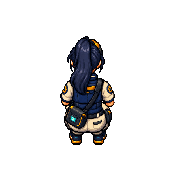
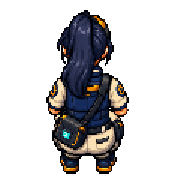
fix(office): normalize coworker desk scale

Changed region(s): [[0.2557, 0.0568, 0.7386, 0.9943]]

diff --git a/scripts/normalize-office-coworker-pair.py b/scripts/normalize-office-coworker-pair.py
@@ -1,0 +1,70 @@
+#!/usr/bin/env python3
+"""Normalize an existing Office coworker's idle/work pair to one visual scale."""
+
+from __future__ import annotations
+
+import argparse
+from pathlib import Path
+
+from PIL import Image
+
+
+CANVAS_SIZE = (176, 176)
+FIT_SIZE = (164, 164)
+
+
+def hard_matte(image: Image.Image, threshold: int = 88) -> Image.Image:
+    rgba = image.convert("RGBA")
+    alpha = rgba.getchannel("A").point(lambda value: 255 if value >= threshold else 0)
+    rgba.putalpha(alpha)
+    return rgba
+
+
+def trim_visible(image: Image.Image) -> Image.Image:
+    matte = hard_matte(image)
+    bounds = matte.getchannel("A").getbbox()
+    if bounds is None:
+        raise ValueError("pose has no visible pixels")
+    return matte.crop(bounds)
+
+
+def compose(pose: Image.Image, scale: float) -> Image.Image:
+    resized = pose.resize(
+        (max(1, round(pose.width * scale)), max(1, round(pose.height * scale))),
+        Image.Resampling.NEAREST,
+    )
+    resized = hard_matte(resized)
+    canvas = Image.new("RGBA", CANVAS_SIZE, (0, 0, 0, 0))
+    x = (CANVAS_SIZE[0] - resized.width) // 2
+    y = CANVAS_SIZE[1] - resized.height - 2
+    canvas.alpha_composite(resized, (x, y))
+    return canvas
+
+
+def main() -> None:
+    parser = argparse.ArgumentParser()
+    parser.add_argument("--slug", required=True)
+    parser.add_argument(
+        "--asset-dir",
+        type=Path,
+        default=Path("ui/public/office/coworkers"),
+    )
+    args = parser.parse_args()
+
+    paths = (
+        args.asset_dir / f"{args.slug}-desk-v1.png",
+        args.asset_dir / f"{args.slug}-desk-work-v1.png",
+    )
+    poses = [trim_visible(Image.open(path)) for path in paths]
+    scale = min(
+        FIT_SIZE[0] / max(pose.width for pose in poses),
+        FIT_SIZE[1] / max(pose.height for pose in poses),
+    )
+
+    for path, pose in zip(paths, poses):
+        compose(pose, scale).save(path, optimize=True)
+        print(path)
+
+
+if __name__ == "__main__":
+    main()

diff --git a/scripts/package-office-coworker-sheet.py b/scripts/package-office-coworker-sheet.py
@@ -26,7 +26,10 @@ def hard_matte(image: Image.Image, threshold: int = 88) -> Image.Image:
 def trim_pose(sheet: Image.Image, index: int) -> Image.Image:
     left = round(sheet.width * index / 3)
     right = round(sheet.width * (index + 1) / 3)
-    panel = sheet.crop((left, 0, right, sheet.height)).convert("RGBA")
+    # Generated sheets often retain a faint alpha haze around the character.
+    # Matte it before measuring so that invisible fringe cannot make the
+    # packaged character look much smaller than its coworkers.
+    panel = hard_matte(sheet.crop((left, 0, right, sheet.height)))
     bounds = panel.getchannel("A").getbbox()
     if bounds is None:
         raise ValueError(f"pose {index + 1} has no visible pixels")

diff --git a/plans/office-floor.md b/plans/office-floor.md
@@ -2381,6 +2381,22 @@ Low-noise auto-route follow-up (2026-08-29):
 - `npx tsc --noEmit`, `cd ui && npx tsc -b`, the 612-file Vitest run (5,070 passing; one file and nine tests skipped),
   and the UI production build all passed. The build retains the existing large-chunk advisory only.
 
+Coworker map-scale normalization follow-up (2026-08-29):
+
+- Maintainer review used Alice as the correct scale reference and identified the seated NPCs—not the player—as too
+  small. Inspection found that every desk image had the same 176px canvas, but generated alpha fringe made some actual
+  silhouettes occupy only 93–119px vertically before the runtime's common 0.23 scale was applied.
+- Compared enlarging every coworker in CSS, changing the complete map scale, and normalizing the authored desk assets by
+  their actual hard-alpha bounds. Chose asset normalization because it fixes the inconsistent source occupancy while
+  leaving Alice, desks, pod spacing, hit targets, and collision geometry untouched.
+- Packaging now hard-mattes generated panels before trimming. A deterministic pair normalizer repacks all ten idle/work
+  sets with one shared scale and bottom-center anchor inside a 164px visual fit, preventing tiny newcomers and animation
+  breathing without rerendering or changing character identity.
+- Browser-rechecked the real 18-Workspace Project at 1280x720: the seated coworkers now read at the same character
+  scale as Alice without covering desks or changing the three-pod composition. Root/UI TypeScript, the 612-file Vitest
+  run (5,070 passing; one file and nine tests skipped), and the UI production build passed; the existing large-chunk
+  advisory remains unchanged.
+
 ## Completion
 
 计划只在 maintainer 接受真实浏览器中的 Live、All groups、employee dialog 和 pause/log

diff --git a/ui/public/office/coworkers/README.md b/ui/public/office/coworkers/README.md
@@ -28,7 +28,11 @@ The roster now contains ten curated identities. Six additional feminine coworker
 three-pose sheets: two Codex variants (field mechanic and cyber scout), a Claude botanical archivist, a Pi field
 mathematician, and two OpenCode variants (workshop hacker and systems analyst). Each sheet keeps one identity across a
 standing portrait, seated idle pose, and seated typing pose. `scripts/package-office-coworker-sheet.py` splits those
-sheets and packages hard-alpha 72x104 portraits plus 176x176 seated canvases.
+sheets and packages hard-alpha 72x104 portraits plus 176x176 seated canvases. Packaging applies the hard-alpha matte
+before measuring each pose, so faint generated fringe cannot shrink the visible character. Existing idle/work pairs
+can be repacked with `scripts/normalize-office-coworker-pair.py`; both frames share one scale, fit a 164x164 visual
+area, and keep the same bottom-center anchor. This keeps every seated NPC legible at map scale without resizing Alice,
+desks, or collision geometry.
 
 Known runtimes map to a small family pool, and `agent + resumeId` selects one identity deterministically so a Session
 never changes appearance after refresh. The original four coworkers remain veteran variants; the six newcomers make
